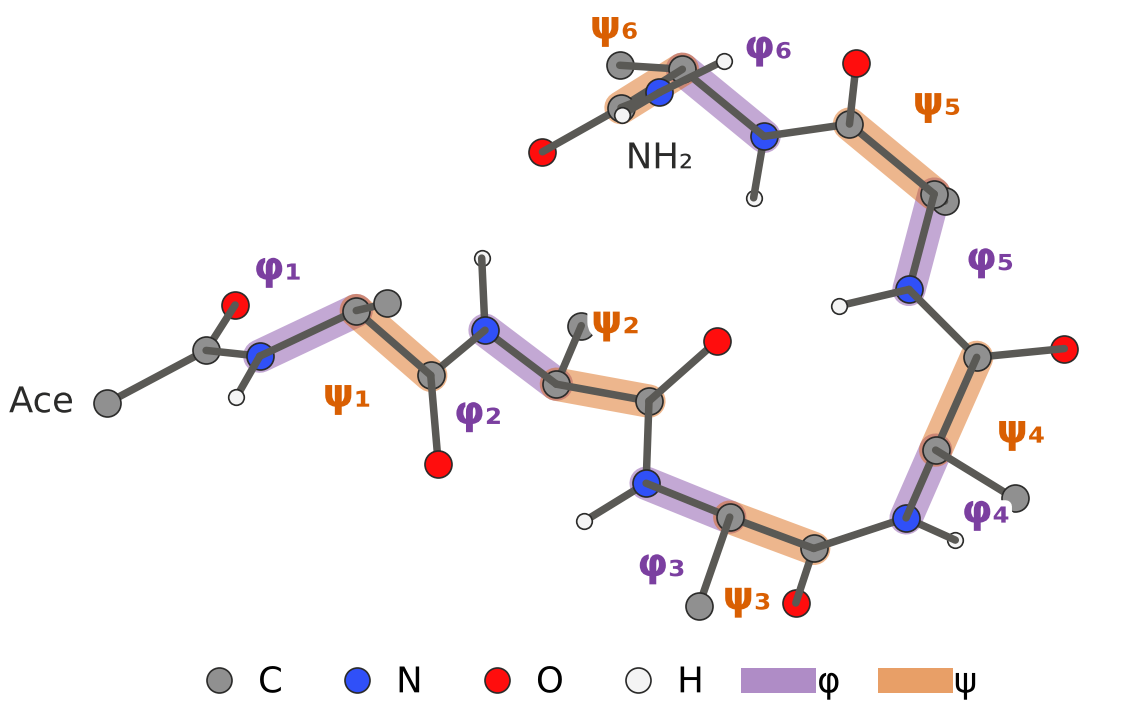
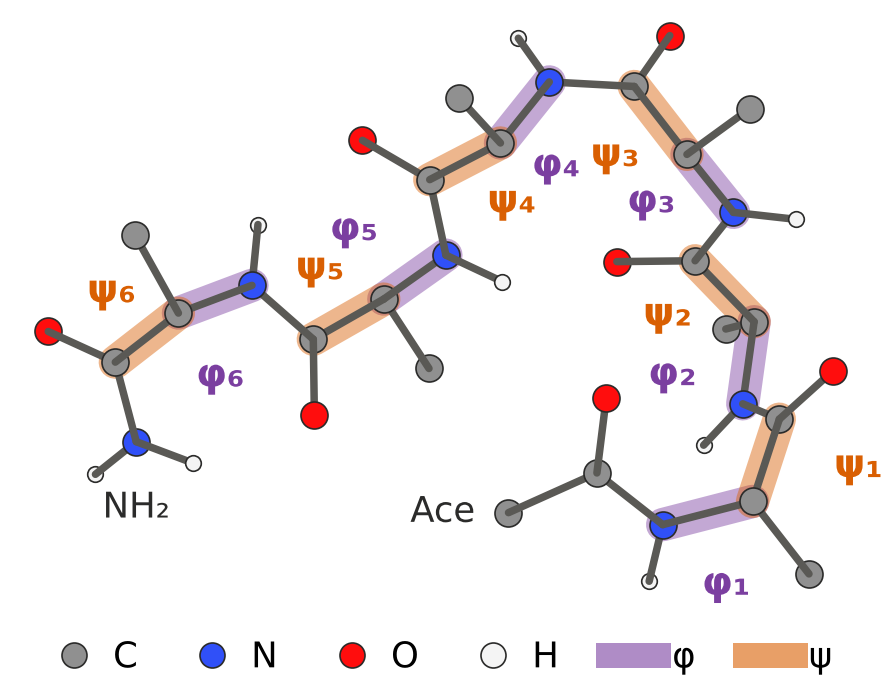
Figura dos angulos do poster num frame sem sobreposicao de atomos
No primeiro frame, a ponta C-terminal fica de frente para quem olha e os
atomos se sobrepoem. O frame 1132 tem a maior folga 2D entre os de 500 K.
Os rotulos phi/psi passam a ir para o lugar mais livre perto da ligacao.

Claude-Session: https://claude.ai/code/session_01ADsRaC8Wn5aKPjx7oKrTmp

diff --git a/molsim/figuras.py b/molsim/figuras.py
@@ -361,6 +361,13 @@ def eixos_de_vista(coords: np.ndarray) -> np.ndarray:
     return base
 
 
+# Frame da figura dos ângulos no pôster. No primeiro frame, a ponta C-terminal (Ala6 e NH₂)
+# fica de frente para quem olha e os átomos se sobrepõem na projeção. O 1132 foi escolhido
+# entre os frames de 500 K pela maior folga 2D entre átomos não vizinhos e entre átomo e
+# ligação alheia, na vista de eixos_de_vista.
+QUADRO_POSTER = 1132
+
+
 def desenhar_molecula(ax, coords, names, bonds, base, rotulos=True, destaque=None,
                       fonte=6.5) -> None:
     xyz = (coords - coords[BACKBONE].mean(0)) @ base
@@ -466,14 +473,20 @@ def fig_estrutura_poster(d: Dados) -> str:
         "Pôster › Material e Métodos", tipo="pôster")
 def fig_diedros_poster(d: Dados) -> str:
     names, coords = d.xyz500
-    c0 = coords[0]
+    c0 = coords[QUADRO_POSTER]
     base = eixos_de_vista(c0)
     fig, ax = plt.subplots(figsize=(INTEIRA, 6.6 * CM))
     desenhar_molecula(ax, c0, names, ligacoes(c0, names), base, rotulos=False)
     xyz = (c0 - c0[BACKBONE].mean(0)) @ base
-    centro = xyz[BACKBONE, :2].mean(0)
     halo = [pe.withStroke(linewidth=3, foreground="white")]
     cor = {"φ": "#7b3fa0", "ψ": "#d95f02"}
+    ocupados = [p for p in xyz[:, :2]]
+    for i in range(len(names)):  # pontos ao longo das ligações também ocupam lugar
+        for j in range(i + 1, len(names)):
+            if np.linalg.norm(c0[i] - c0[j]) < (1.25 if "H" in names[i][0] + names[j][0]
+                                                else 1.75):
+                ocupados += [xyz[i, :2] + t * (xyz[j, :2] - xyz[i, :2])
+                             for t in (0.25, 0.5, 0.75)]
     for k, (_, a, b, _) in enumerate(DIHEDRAL_ATOMS):
         letra_ang = "φ" if k % 2 == 0 else "ψ"
         pa, pb = xyz[a, :2], xyz[b, :2]
@@ -481,15 +494,18 @@ def fig_diedros_poster(d: Dados) -> str:
         ax.plot(*np.c_[pa, pb], color=cor[letra_ang], lw=8, alpha=0.45,
                 solid_capstyle="round", zorder=1)
         meio = (pa + pb) / 2
-        normal = np.array([pb[1] - pa[1], pa[0] - pb[0]])
-        normal /= np.linalg.norm(normal)
-        if normal @ (meio - centro) < 0:
-            normal = -normal
-        if k == 3:  # ψ₂ fica no meio da cadeia: para fora apontaria para a ligação de φ₃
-            normal = -normal
-        ax.annotate(f"{letra_ang}{'₁₂₃₄₅₆'[k // 2]}", meio, xytext=17 * normal,
-                    textcoords="offset points", ha="center", va="center", fontsize=9.5,
-                    fontweight="bold", color=cor[letra_ang], path_effects=halo, zorder=600)
+        u = (pb - pa) / np.linalg.norm(pb - pa)
+        normal = np.array([u[1], -u[0]])
+        # rótulo no lugar mais livre ao redor da ligação (dos dois lados, a 0,9–1,4 Å),
+        # longe de átomos, ligações e rótulos já postos
+        candidatos = [meio + lado * dist * normal + desl * u for lado in (1, -1)
+                      for dist in (0.9, 1.15, 1.4) for desl in (-0.35, 0.0, 0.35)]
+        pos = max(candidatos, key=lambda q: min(np.linalg.norm(np.array(ocupados) - q, axis=1))
+                  - 0.6 * np.linalg.norm(q - meio))
+        ocupados += [pos]
+        ax.text(*pos, f"{letra_ang}{'₁₂₃₄₅₆'[k // 2]}", ha="center", va="center",
+                fontsize=9.5, fontweight="bold", color=cor[letra_ang], path_effects=halo,
+                zorder=600)
     for i, txt, off, ha in ((0, "Ace", (-8, 0), "right"), (39, "NH₂", (0, -16), "center")):
         ax.annotate(txt, xyz[i, :2], xytext=off, textcoords="offset points", ha=ha,
                     va="center", fontsize=8.5, color=TINTA, path_effects=halo, zorder=600)
@@ -501,7 +517,8 @@ def fig_diedros_poster(d: Dados) -> str:
     salvar(fig, "S_diedros_poster")
     return ("Os 12 ângulos diedros do esqueleto, dois por alanina: φ gira em torno da "
             "ligação N–Cα e ψ em torno da ligação Cα–C (realçadas na cor do ângulo). O índice "
-            "é o da alanina, de Ala1 a Ala6. Primeiro frame da trajetória de 500 K.")
+            "é o da alanina, de Ala1 a Ala6. Frame "
+            f"{QUADRO_POSTER} da trajetória de 500 K.")
 
 
 # --------------------------------------------------------------------------
